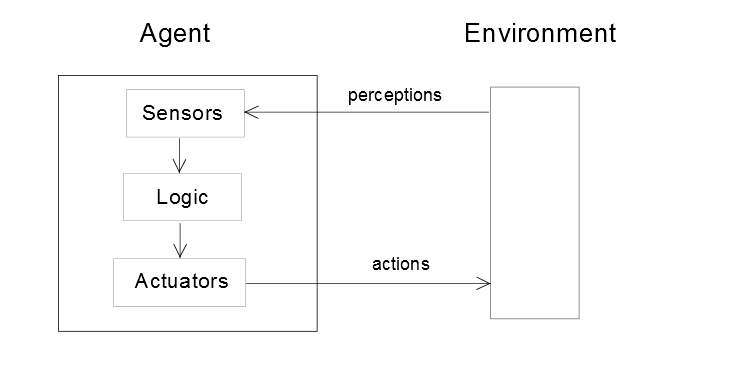
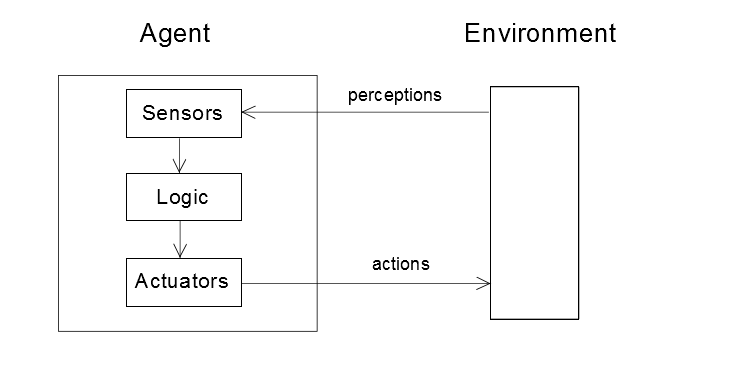
Documentation graphic correction chapter 2 finished

diff --git a/doc/documentation_graphic/neural_networks.tex b/doc/documentation_graphic/neural_networks.tex
@@ -346,8 +346,19 @@ See also \cite{ai} chapter 2.2.1
 \section{Types of agents}
 By \cite{ai} agents can be classified in the following categories:
 \subsection{Simple reflex agent}
+
+
+\begin{center}
+	\begin{figure}[H]
+		\centering
+		\includegraphics[width=1.0\textwidth,scale=1]{files/Reflexagent.png}  
+		\caption{Structure of a simple reflex agent (oriented on \cite{ai} Figure 2.9)} 
+		\label{fig:agentr}
+	\end{figure}
+\end{center}
+
 The simplest type of an agent is the reflex based agent.
-This agent only processes the actual perception and act on the base of this actual state. This type of agent can be used for simple tasks. The benefits are a fast implementation and a drastically reduced state space.
+This agent only processes the actual perception and act on the base of this actual state. In the simplest case the logic is realised as a lookup table or defined by simple rules. This type of agent can be used for simple tasks. The benefits are a fast implementation and a drastically reduced state space.
 The disadvantage lies within the simplicity. This agent has no memory and therefore doesn't include past states in his decisions. If the present state of the environment doesn't provide enough information or it is just partially observable, the agent could not solve the task.
 In partially observebale environment there can occur loops of wrong behaviour. This loops can be overcome if a random action can be chosen.
 For best functionality of a simple reflex agent the problem-environment should be fully observable.\footnote{See Chapter \ref{sec:env} for an explanaition of the environment}
@@ -392,6 +403,16 @@ The complete development of an agent is difficult and time-consuming. Therefore 
 }   \\
 \\
 
+
+%\begin{center}
+%	\begin{figure}[H]
+%		\centering
+%		\includegraphics[width=1.0\textwidth,scale=1]{files/Learningagent.png}  
+%		\caption{General structure of a learning agent (oriented on \cite{ai} Figure 2.15)} 
+%		\label{fig:agentl}
+%	\end{figure}
+%\end{center}
+
 The \textbf{performance element} is the executive part of the agent. It processes sensor data and makes actions. \\
 
 The \textbf{learning element} is responsible for improvements of the agent. The learning element can contain a decision tree, a neural net, a support vector machine or other learning structures. \\
@@ -417,8 +438,8 @@ In the first case its preferable to define the task completely. In \cite{ai} cha
 	\begin{minipage}{15cm}
 		\begin{multicols}{2}
 			\begin{itemize} 
-				\item \textbf{The performance}
-				\item \textbf{The environment}
+				\item \textbf{Performance}
+				\item \textbf{Environment}
 				\item \textbf{Actuators}
 				\item \textbf{Sensors}
 			\end{itemize}
@@ -427,32 +448,34 @@ In the first case its preferable to define the task completely. In \cite{ai} cha
 }   \\
 \\
 
-\textbf{The performance} is defined by the rating the agent can achieve. Therefore (TODO)\\
+The \textbf{performance} is defined by the rating the agent can achieve. The performance measure is done by metrics the developer has to choose before creating agents. Metrics can for example be how good an agent solves the problem, how fast it solves it, how efficient it uses ressources, etc. It is possible to rate the agent by multiple criteria. \\
 
-\textbf{The environment} is the frame an agent solves a task within.
+The \textbf{environment} is the frame an agent solves a task within.
 If the sensors allow the agent to get the information of the whole environment, the environment is called \textbf{fully observeable}. The agent therefore can get all relevant information for its actions. Otherwise an environment is classified as \textbf{partially observeable}. For example this can be if the sensors are limited or influenced by interferences.
 If the agent has no sensors at all, the task environment is called \textbf{unobserveable}. Instinctively you would think this kind of agent would be totally useless, but there exist succesful algorithms to solve problems. For example a vacuuming robot can clean a room effectively. It therefore uses stochastic algorithms. In factories this is used effectively to turn objects on an assembly line. The benefit is less costs in sensors. \\
 
 It can also be necessary to know if the environment is a \textbf{single-} or \textbf{multiagent}-based one. Multiple agents can \textbf{cooperate} or \textbf{compete}. \\
 
-The environment is \textbf{deterministic} if all further states are predictable by the current state and there are no random events. Otherwise it is \textbf{stochastic}. In reality there can exist deterministic environments. But often the possibilities are too complex. The environment must then be handled by the agent as if it were stochastic. There are given probabilities for each possibility. If not it is called \textbf{non-deterministic}. \\
+The environment is \textbf{deterministic} if all further states are predictable by the current state and there are no random events. Otherwise it is \textbf{stochastic}.
+In a stochastic environment there are given probabilities for each possible event. If not it is called \textbf{non-deterministic}.
+In reality there can exist deterministic environments with the disadvantage of too much possibilities. An agent can't  compute every possible effect then.
+In this case the environment must be handled by the agent as if it were stochastic to get a chance of solving the task. \\
 
 If the action of the agent does only depend on the actual environment state and does not influence future state the environment is called \textbf{episodic}. Otherwise its called
 \textbf{sequential}. Chess for example is a sequential environment because every move can bring the game in a win- or lose-situation. \\
 
-A \textbf{static} environment doesn't change. This makes it easier for the agent to solve a task. A \textbf{dynamically} environment on the other hand needs a continuously observation. If the environment doesn't change, but the agent's rating-process, it is called \textbf{semidynamically}. \\
+A \textbf{static} environment doesn't change. This makes it easier for the agent to solve a task. A \textbf{dynamic} environment on the other hand needs a continuously observation.
+It is possible that the environment is static, but the rating of the agent depends on the passed time. \textbf{semidynamic}. An example for a static environment is chess. Playing chess with a clock is semidynamic. \\
 
 The environment can have \textbf{discrete} or \textbf{continous} states. Chess has discrete states, as it is played move by move. It could get a continous character if the time to calculate a move plays a role. Driving a car is in general continously as accelerating and steering have continous units.\\
 
 The environment can be \textbf{known} or \textbf{unknown}. That means that the agent has foreknowledge about the environment. This category has nothing to do with observability. \\
 
 
-\textbf{The actuators} are the components an agent uses to interact with the environment. In developing an agent there must be kept an eye on the possible actions an agent can do.\\
+\textbf{The actuators} are the components an agent uses to interact with the environment. While developing an agent the types of actuators and, for physical agents, the degrees of freedom\footnote{The degrees of freedom are the amount of independent parameters of a physical system that is necessary to describe the state of this system} may be considered.\\
 
-\textbf{The sensors} are responsible for receiving data of the environment. With good algorithms costs for sensors can be noticeably reduced.
+\textbf{The sensors} are responsible for receiving data of the environment. With appropriate algorithms a better evaluation of sensor data is possible. The advantage can be a noticeable reduction of sensor costs.
 
-
-(\cite{ai}Chapter 2.3)
 
 \chapter{Artificial neural networks}
 Artficial neural networks (ANN) are inspired by their biological equivalents.
